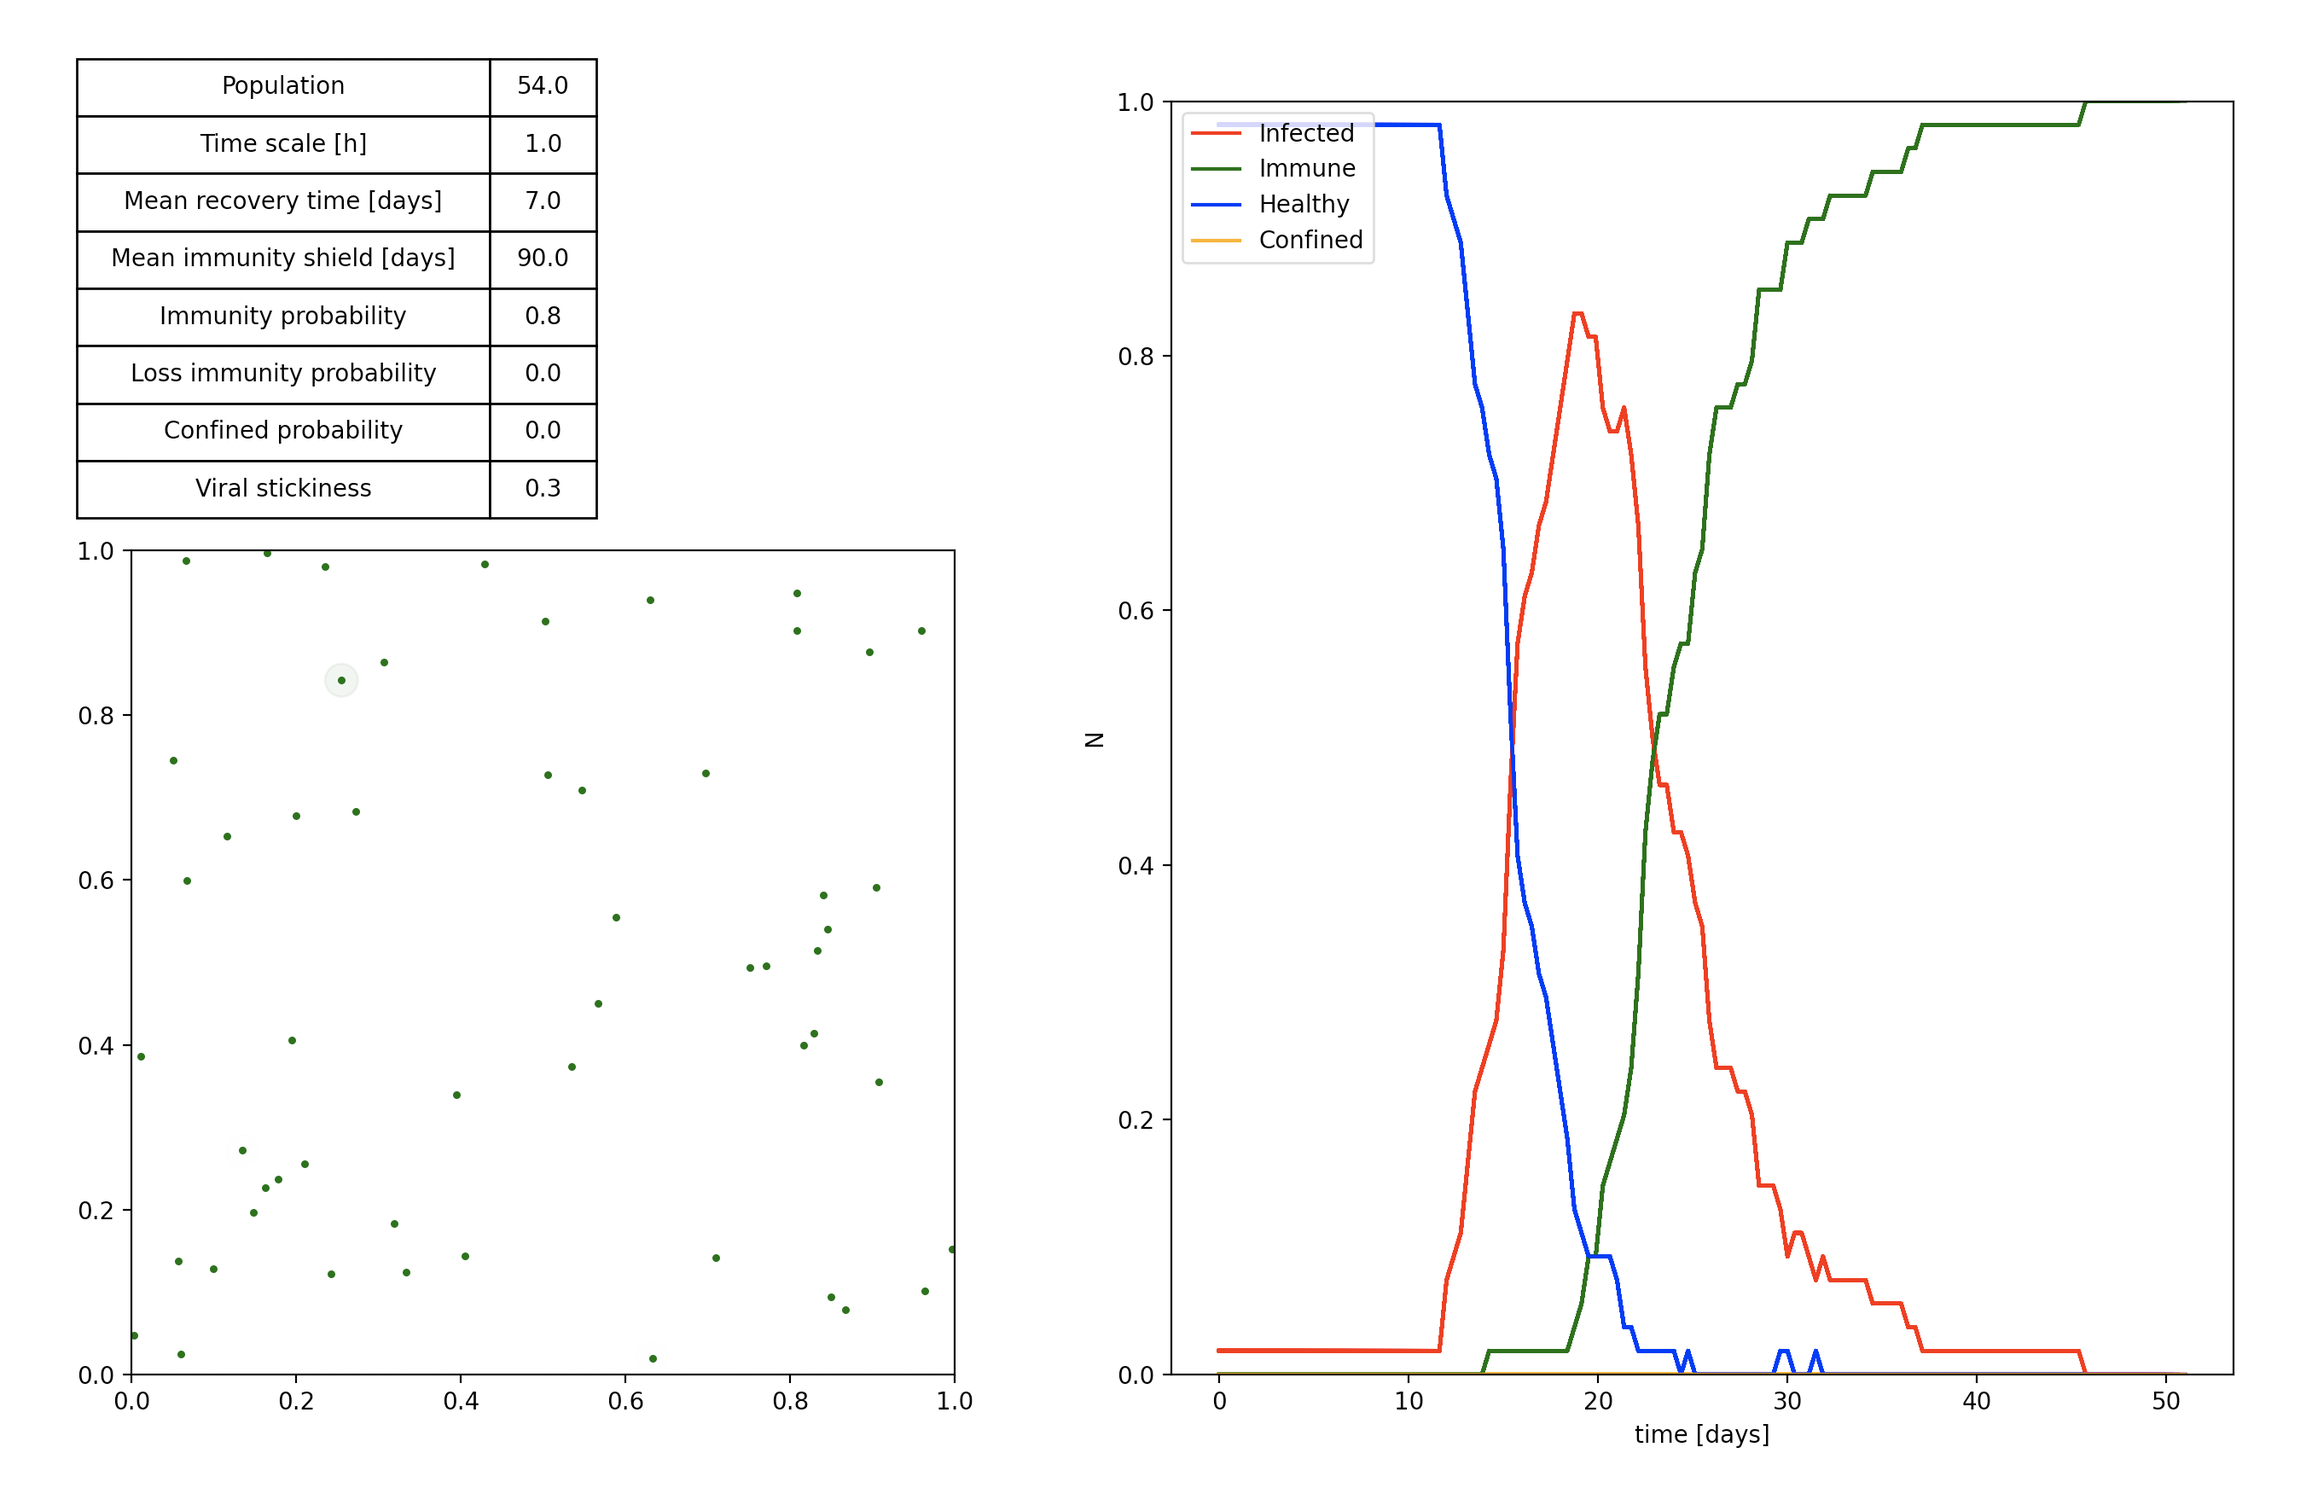
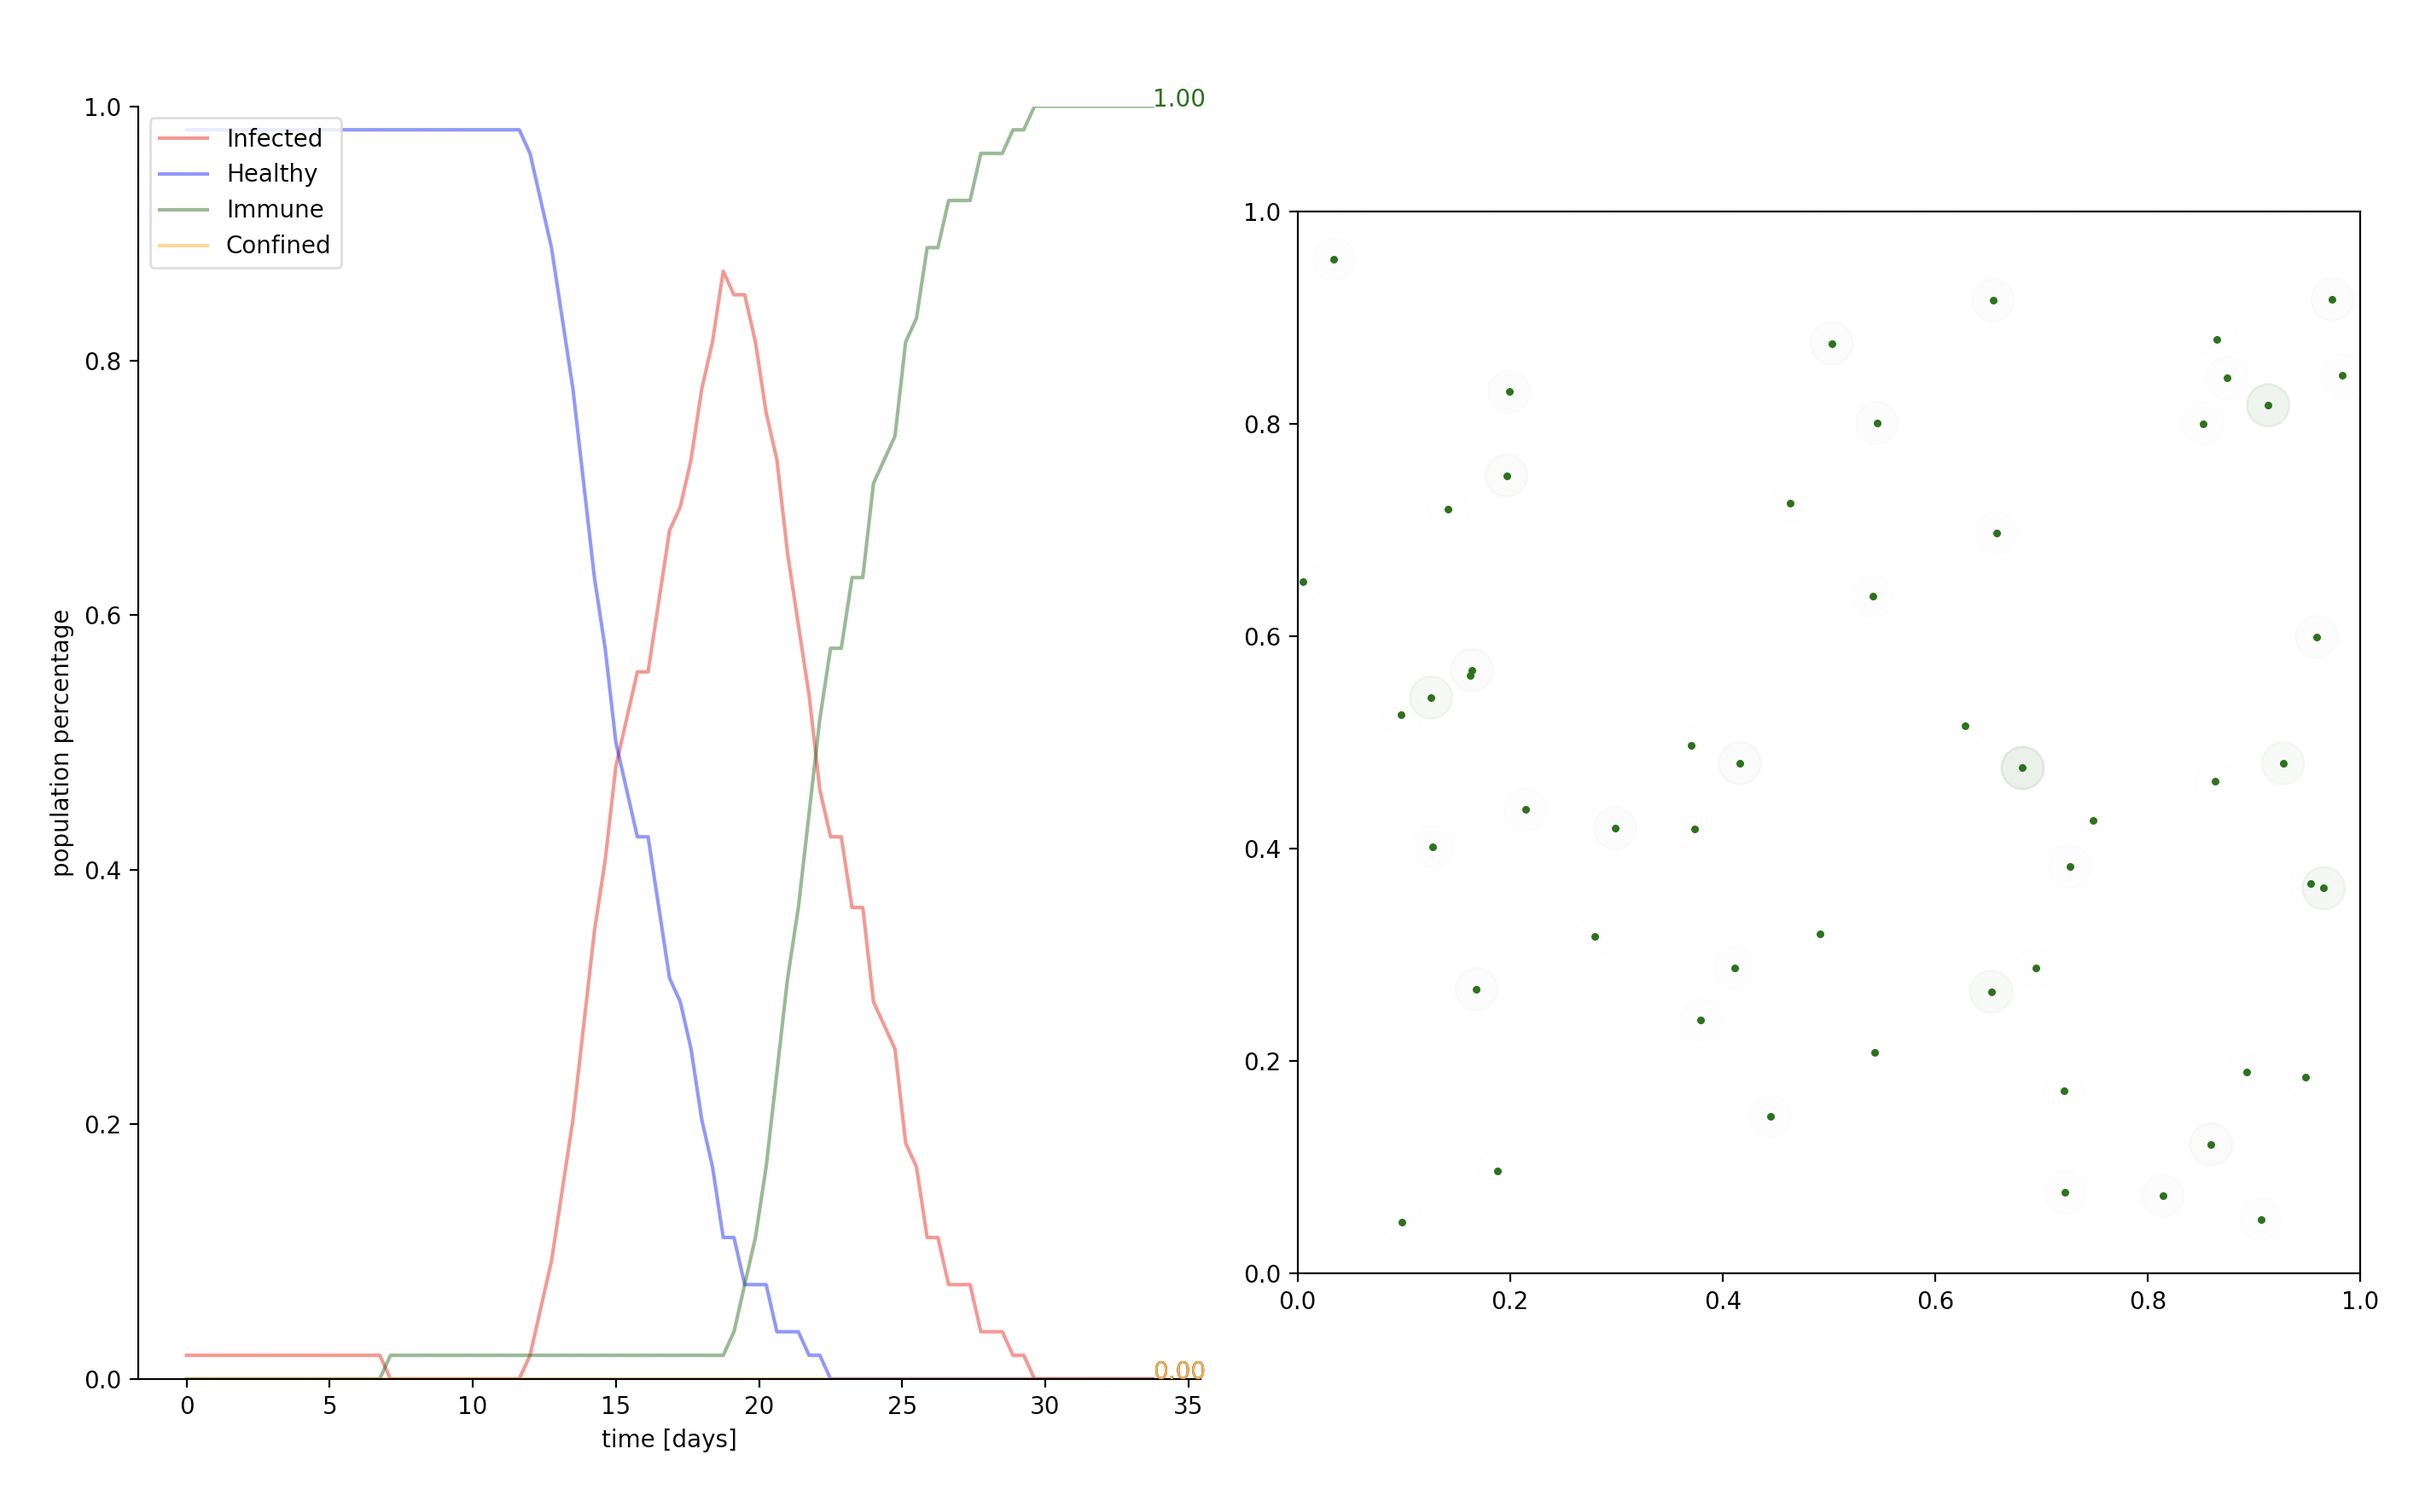
update: Add SIR model examples

diff --git a/src/simulation/graph.py b/src/simulation/graph.py
@@ -48,6 +48,8 @@ class Graph:
                            society_snapshot: Dict,
                            society_progress: Dict):
 
+        ax.set_xlabel('time [days]')
+        ax.set_ylabel('population percentage')
         for st in Status:
             society_progress[st.name].append(society_snapshot[st.name] / society_snapshot["Total"])
             ax.plot(
@@ -68,6 +70,8 @@ class Graph:
                                    society_progress: Dict):
 
         previous_status = None
+        ax.set_xlabel('time [days]')
+        ax.set_ylabel('population percentage')
         for st in Status:
             society_progress[st.name].append(society_snapshot[st.name])
 
